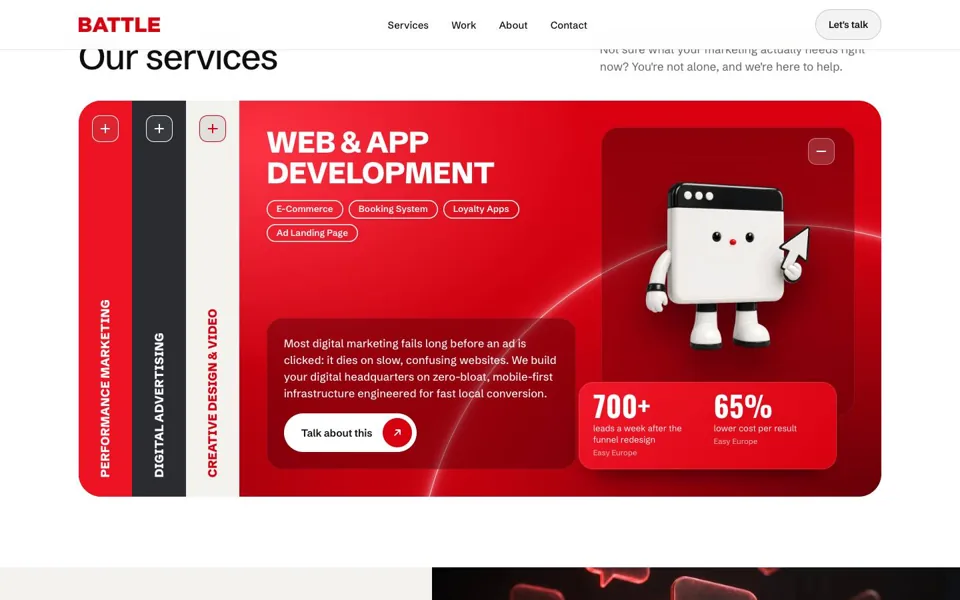
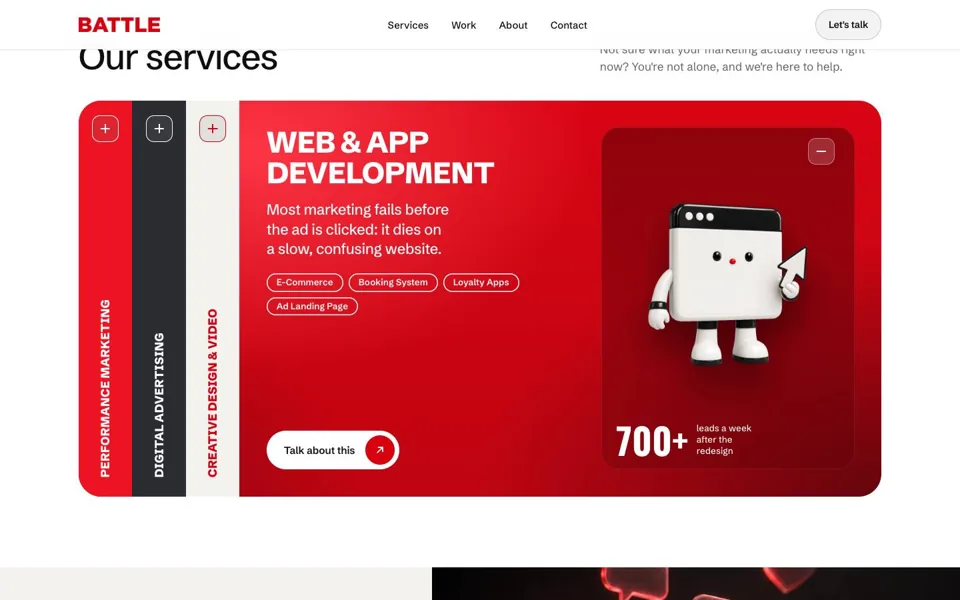
Round 13: five hero versions to choose from (ring, team photo, photo split, character line-up, clean), switchable with ?hero=1..5

diff --git a/r13.css b/r13.css
@@ -434,3 +434,84 @@ body.lock{overflow:hidden}
 }
 @media (max-width:370px){.h1 .b{font-size:14vw}.ctas .btn{padding-left:18px}.wh .v{font-size:28px}.pnm{font-size:16px}}
 @media (prefers-reduced-motion:reduce){html{scroll-behavior:auto}.rz .w>span{transform:none;transition:none}.spill img,.cnp img{animation:none}.sl>img{transition:none;transform:none}.acc *,.wr,.wb,.wph,.flow figure{transition:none!important}}
+
+/* ================= hero versions for review (David 22 Nov: "give me a few versions for hero section") =================
+   ?hero=1 ring (the first build) · 2 team photo · 3 photo split · 4 character line-up · 5 clean type. The switcher is a review aid, not part of the design. */
+.hteam,.hsplit,.hline,.hproof{display:none}
+html:not([data-hero="1"]) .ring,html:not([data-hero="1"]) .ppl,html:not([data-hero="1"]) .spill{display:none}
+.hsw{position:absolute;right:max(var(--gut),calc((100vw - 1320px)/2 + var(--gut)));top:82px;z-index:9;display:flex;align-items:center;gap:2px;padding:5px;border-radius:999px;background:rgba(14,15,18,.88);color:#fff;font:600 12.5px/1 var(--t);box-shadow:0 14px 30px -14px rgba(0,0,0,.6)}
+.hsw span{padding:0 8px 0 12px;opacity:.66}
+.hsw a{padding:9px 13px;border-radius:999px;text-decoration:none;white-space:nowrap;transition:background .25s}
+.hsw a:hover{background:rgba(255,255,255,.16)}.hsw a[aria-current=true]{background:#fff;color:var(--ink)}
+
+/* 2 · team photo: one campaign photograph on the brand red, the headline above it */
+[data-hero="2"] .hbg{background:radial-gradient(56% 46% at 50% 26%,#F01522,rgba(240,21,34,0) 72%),radial-gradient(60% 60% at 0% 100%,rgba(150,0,10,.7),rgba(150,0,10,0) 70%),radial-gradient(60% 60% at 100% 100%,rgba(150,0,10,.7),rgba(150,0,10,0) 70%),#D90308}
+[data-hero="2"] .neon{display:none}
+[data-hero="2"] .hteam{display:flex;justify-content:center;position:absolute;left:0;right:0;bottom:0;height:64svh;max-height:66%;z-index:1;pointer-events:none}
+.hteam img{height:100%;width:auto;max-width:none;-webkit-mask-image:linear-gradient(transparent,#000 20%),linear-gradient(90deg,transparent,#000 9%,#000 91%,transparent);-webkit-mask-composite:source-in;mask-image:linear-gradient(transparent,#000 20%),linear-gradient(90deg,transparent,#000 9%,#000 91%,transparent);mask-composite:intersect}
+[data-hero="2"] .hcopy{top:clamp(250px,29%,380px)}
+[data-hero="2"] .h1 .b{font-size:clamp(52px,6.3vw,98px)}
+[data-hero="2"] .lead{margin-top:16px;max-width:52ch}
+[data-hero="2"] .ctas{margin-top:22px}
+[data-hero="2"] .hfade{height:24%}
+
+/* 3 · photo split: the words on the left, one portrait in a frame, two results pinned to it */
+[data-hero="3"] .hcopy{left:max(var(--gut),calc((100vw - 1320px)/2 + var(--gut)));top:50%;translate:0 -50%;width:min(50vw,640px);text-align:left;align-items:flex-start}
+[data-hero="3"] .h1{justify-items:start}
+[data-hero="3"] .h1 .b{white-space:normal;font-size:clamp(58px,7.2vw,116px);line-height:.9}
+[data-hero="3"] .lead{max-width:40ch}
+[data-hero="3"] .ctas{justify-content:flex-start}
+[data-hero="3"] .neon{left:calc(100% - max(var(--gut),(100vw - 1320px)/2 + var(--gut)) - min(18vw,240px));top:53%;width:min(86vh,58vw);height:min(86vh,58vw)}
+[data-hero="3"] .hsplit{display:block;position:absolute;z-index:4;right:max(var(--gut),calc((100vw - 1320px)/2 + var(--gut)));top:136px;bottom:8%;width:min(36vw,480px)}
+.hsplit figure{position:absolute;inset:0;border-radius:36px;overflow:hidden;box-shadow:0 50px 80px -40px rgba(40,0,4,.85)}
+.hsplit img{width:100%;height:100%;object-fit:cover;object-position:50% 22%}
+.hg{position:absolute;z-index:2;display:grid;gap:5px;padding:16px 20px;border-radius:22px;background:#fff;color:var(--ink);box-shadow:0 30px 50px -24px rgba(30,0,3,.7)}
+.hg b{font:700 clamp(38px,3.6vw,54px)/.86 var(--c);color:var(--red)}
+.hg span{max-width:15ch;font:600 13.5px/1.25 var(--t)}
+.hg.g1{left:-24%;bottom:14%}.hg.g2{right:-7%;top:13%}
+[data-hero="3"] .hfade{height:20%}
+
+/* 4 · line-up: the four services stand in a row; tap one to open it */
+[data-hero="4"] .hcopy{top:clamp(262px,33%,400px)}
+[data-hero="4"] .h1 .b{font-size:clamp(56px,6.8vw,104px)}
+@media (max-height:800px) and (min-width:901px){[data-hero="2"] .lead,[data-hero="4"] .lead{display:none}[data-hero="2"] .hcopy,[data-hero="4"] .hcopy{top:clamp(200px,30%,300px)}.hc img{height:clamp(110px,24svh,200px)}}
+[data-hero="4"] .neon{width:150vw;height:150vw;top:calc(56% + 75vw)}
+[data-hero="4"] .hline{display:flex;justify-content:center;align-items:flex-end;gap:clamp(8px,4.6vw,84px);position:absolute;left:0;right:0;bottom:0;z-index:5;padding:0 var(--gut) clamp(20px,4.4vh,46px)}
+.hc{all:unset;box-sizing:border-box;cursor:pointer;display:grid;justify-items:center;gap:14px;-webkit-tap-highlight-color:transparent}
+.hc img{height:clamp(110px,27svh,260px);width:auto;max-width:none;filter:drop-shadow(0 26px 20px rgba(50,0,4,.42));transition:transform .5s var(--ease)}
+.hc span{padding:10px 17px;border-radius:999px;background:#fff;color:var(--ink);font:700 13.5px/1 var(--t);white-space:nowrap;box-shadow:0 14px 26px -14px rgba(40,0,4,.55);transition:background .3s,color .3s}
+@media (hover:hover){.hc:hover img{transform:translateY(-12px) scale(1.05)}.hc:hover span{background:var(--ink);color:#fff}}
+.hc:focus-visible{outline:3px solid #fff;outline-offset:6px;border-radius:18px}
+[data-hero="4"] .hfade{height:26%}
+
+/* 5 · clean: the ring, the words, three numbers. Nothing else */
+[data-hero="5"] .neon{width:min(126vh,88vw);height:min(126vh,88vw);top:50%}
+[data-hero="5"] .hcopy{top:49%}
+[data-hero="5"] .h1 .b{font-size:clamp(60px,8.4vw,134px)}
+[data-hero="5"] .hproof{display:flex;gap:clamp(20px,3.6vw,58px);margin-top:clamp(26px,4.2vh,46px);padding-top:22px;border-top:1px solid rgba(255,255,255,.34)}
+.hproof li{display:grid;gap:5px;text-align:left}
+.hproof b{font:700 clamp(30px,3vw,46px)/.88 var(--c)}
+.hproof span{font:500 13.5px/1.2 var(--t);opacity:.94}
+[data-hero="5"] .hfade{height:24%}
+
+@media (max-width:900px){
+  .hsw{right:auto;left:50%;transform:translateX(-50%);top:70px;font-size:11.5px}.hsw span{display:none}.hsw a{padding:8px 10px}
+  [data-hero="2"] .hcopy{top:34%}[data-hero="2"] .h1 .b{font-size:clamp(50px,14.4vw,72px)}
+  [data-hero="2"] .hteam{height:50svh;max-height:52%}
+  [data-hero="2"] .lead{margin-top:14px}[data-hero="2"] .ctas{margin-top:18px}
+  [data-hero="3"] .hcopy{left:var(--gut);top:118px;translate:none;width:calc(100% - 2*var(--gut))}
+  [data-hero="3"] .h1 .b{font-size:clamp(50px,14.4vw,72px)}
+  [data-hero="3"] .lead{margin-top:12px;font-size:14.5px}[data-hero="3"] .ctas{margin-top:16px}
+  [data-hero="3"] .neon{left:50%;top:76%;width:120vw;height:120vw}
+  [data-hero="3"] .hsplit{left:var(--gut);right:var(--gut);width:auto;top:auto;bottom:5%;height:33svh;max-height:270px}
+  .hsplit figure{border-radius:24px}.hsplit img{object-position:50% 16%}
+  .hg{padding:10px 13px;border-radius:16px}.hg b{font-size:30px}.hg span{font-size:11.5px;max-width:13ch}
+  .hg.g1{left:10px;bottom:10px}.hg.g2{right:10px;top:10px}
+  [data-hero="4"] .hcopy{top:33%}[data-hero="4"] .h1 .b{font-size:clamp(50px,14.4vw,72px)}
+  [data-hero="4"] .neon{width:230vw;height:230vw;top:calc(60% + 115vw)}
+  [data-hero="4"] .hline{gap:4px;justify-content:space-between;padding:0 10px 18px}
+  .hc{gap:9px;flex:1 1 0;min-width:0}.hc img{height:clamp(68px,11.6svh,94px)}.hc span{padding:7px 8px;font-size:10.5px}
+  [data-hero="5"] .neon{width:124vw;height:124vw;top:46%}[data-hero="5"] .hcopy{top:46%}
+  [data-hero="5"] .h1 .b{font-size:clamp(52px,15vw,76px)}
+  [data-hero="5"] .hproof{gap:18px;margin-top:24px;padding-top:18px;align-items:start}.hproof b{font-size:30px}.hproof span{font-size:12px;max-width:11ch}
+}

diff --git a/home-r13.html b/home-r13.html
@@ -3,7 +3,8 @@
 <link rel="preconnect" href="https://fonts.googleapis.com"><link rel="preconnect" href="https://fonts.gstatic.com" crossorigin>
 <link href="https://fonts.googleapis.com/css2?family=Oswald:wght@600;700&family=Schibsted+Grotesk:wght@400;500;600;700;800;900&display=swap" rel="stylesheet">
 <link rel="preload" as="image" href="assets2/p_man_l.webp"><link rel="preload" as="image" href="assets2/p_woman_r.webp">
-<link rel="icon" href="assets3/bm-mark.webp"><link rel="stylesheet" href="r13.css"></head><body class="r13"><header class="nav" id="nav"><div class="wrap"><a class="home" href="#top" aria-label="Battle, back to the top"><img class="lw" src="assets3/battle-white.webp" alt="Battle"><img class="lr" src="assets3/battle-red.webp" alt="" aria-hidden="true"></a>
+<link rel="icon" href="assets3/bm-mark.webp"><link rel="stylesheet" href="r13.css">
+<script>document.documentElement.dataset.hero=(new URLSearchParams(location.search).get("hero")||"1").replace(/[^1-5]/g,"")||"1"</script></head><body class="r13"><header class="nav" id="nav"><div class="wrap"><a class="home" href="#top" aria-label="Battle, back to the top"><img class="lw" src="assets3/battle-white.webp" alt="Battle"><img class="lr" src="assets3/battle-red.webp" alt="" aria-hidden="true"></a>
 <ul><li><a href="#services">Services</a></li><li><a href="#cases">Work</a></li><li><a href="#about">About</a></li><li><a href="#connect">Contact</a></li></ul>
 <div class="nr"><a class="btn gl sm" href="#connect">Let's talk</a><button class="nb" id="nb" type="button" aria-label="Menu" aria-expanded="false" aria-controls="drawer"><i></i><i></i></button></div></div></header>
 <nav class="drawer" id="drawer" aria-label="Menu"><ul><li><a href="#services">Services</a></li><li><a href="#cases">Work</a></li><li><a href="#about">About</a></li><li><a href="#connect">Contact</a></li></ul>
@@ -13,8 +14,13 @@
 <div class="ppl" aria-hidden="true"><img class="pp l" src="assets2/p_man_l.webp" alt="" draggable="false"><img class="pp r" src="assets2/p_woman_r.webp" alt="" draggable="false"></div>
 <div class="hcopy"><h1 class="h1"><span class="a rz" data-rz>Not sure where to start with</span><span class="b rz" data-rz>digital marketing?</span></h1>
 <p class="lead">We understand the frustration. Let us help you cut through the clutter with a clear, human-centred approach that drives results.</p>
-<div class="ctas"><a class="btn" href="#connect">Let's talk<span class="ar" aria-hidden="true"><svg viewBox="0 0 16 16"><path d="M4 12 12 4M5.5 4H12v6.5" fill="none" stroke="currentColor" stroke-width="1.8" stroke-linecap="round" stroke-linejoin="round"/></svg><svg viewBox="0 0 16 16"><path d="M4 12 12 4M5.5 4H12v6.5" fill="none" stroke="currentColor" stroke-width="1.8" stroke-linecap="round" stroke-linejoin="round"/></svg></span></a><a class="btn gl" href="#services">Help me pick</a></div></div>
-<div class="spill" id="spill" aria-hidden="true"></div></section><section class="cl" id="clients" data-tone="light"><div class="wrap"><h2 class="ttl rz" data-rz>Trusted by <b>160+</b> clients across <b>14+</b> industries</h2></div>
+<div class="ctas"><a class="btn" href="#connect">Let's talk<span class="ar" aria-hidden="true"><svg viewBox="0 0 16 16"><path d="M4 12 12 4M5.5 4H12v6.5" fill="none" stroke="currentColor" stroke-width="1.8" stroke-linecap="round" stroke-linejoin="round"/></svg><svg viewBox="0 0 16 16"><path d="M4 12 12 4M5.5 4H12v6.5" fill="none" stroke="currentColor" stroke-width="1.8" stroke-linecap="round" stroke-linejoin="round"/></svg></span></a><a class="btn gl" href="#services">Help me pick</a></div>
+<ul class="hproof" aria-label="Battle in numbers"><li><b>160+</b><span>clients</span></li><li><b>14+</b><span>industries</span></li><li><b>22×</b><span>best return on ad spend</span></li></ul></div>
+<div class="hteam" aria-hidden="true"><img src="assets6/hero_team.webp" alt="" loading="lazy" draggable="false"></div>
+<div class="hsplit" aria-hidden="true"><figure><img src="assets6/hero_solo.webp" alt="" loading="lazy" draggable="false"></figure>
+<div class="hg g1"><b>+450%</b><span>monthly revenue, one outlet</span></div><div class="hg g2"><b>700+</b><span>leads a week</span></div></div>
+<div class="hline" id="hline"></div>
+<div class="spill" id="spill" aria-hidden="true"></div><nav class="hsw" id="hsw" aria-label="Hero versions, for review"></nav></section><section class="cl" id="clients" data-tone="light"><div class="wrap"><h2 class="ttl rz" data-rz>Trusted by <b>160+</b> clients across <b>14+</b> industries</h2></div>
 <div class="lrib" id="lrib" role="list" aria-label="Some of our clients"></div></section><section class="sv" id="services" data-tone="light"><div class="wrap"><div class="svh"><h2 class="ttl rz" data-rz>Our services</h2>
 <p class="sub">Not sure what your marketing actually needs right now? You're not alone, and we're here to help.</p></div>
 <div class="acc grain" id="acc"></div></div></section><section class="ch" id="diag" data-tone="light"><div class="chl"><h2 class="ttl rz" data-rz>Match your marketing headache</h2>

diff --git a/index.html b/index.html
@@ -28,7 +28,12 @@ h1{font-weight:800;letter-spacing:-.03em;font-size:clamp(34px,4.5vw,60px);line-h
 @media (max-width:720px){.nt{padding:0 18px 20px}.nt table,.nt tbody,.nt tr,.nt td{display:block;width:auto!important}.nt thead{display:none}.nt td{border-bottom:0;padding:4px 16px}.nt tr{padding:12px 0;border-bottom:1px solid #efefef}}
 @media (max-width:720px){.mv{padding-left:16px!important;padding-right:16px!important;grid-template-columns:minmax(0,1fr)!important}.grid{padding-left:16px!important;padding-right:16px!important;grid-template-columns:minmax(0,1fr)!important}}
 </style></head><body>
-<!--r13--><div class="top" id="r13"><div class="lbl">Round 13 · rebuilt against the feedback slides · 22 Nov</div>
+<!--r13--><div class="top" id="r13h"><div class="lbl">Round 13 · five heroes to choose from · 22 Nov</div>
+<h1>Pick a hero.</h1>
+<p class="note">Same title, same copy, same page underneath. A small switcher at the top of the banner flips between them. The people are generated and fictional, standing in until Battle shoots its own.</p></div>
+<div class="grid" style="display:grid;grid-template-columns:repeat(auto-fit,minmax(240px,1fr));gap:22px;padding:0 40px 40px;max-width:1400px;margin:0 auto">
+<div class="card"><a href="home-r13.html?hero=1"><img src="gen/r13-h1.webp" alt="Hero 1: Ring" style="aspect-ratio:8/5;cursor:pointer"></a><div class="b"><h2>Hero 1 · Ring</h2><p>The first build: pieces riding a neon ring, two people at the sides.</p></div></div><div class="card"><a href="home-r13.html?hero=2"><img src="gen/r13-h2.webp" alt="Hero 2: Team" style="aspect-ratio:8/5;cursor:pointer"></a><div class="b"><h2>Hero 2 · Team</h2><p>One campaign photograph of four people on the brand red, the headline above.</p></div></div><div class="card"><a href="home-r13.html?hero=3"><img src="gen/r13-h3.webp" alt="Hero 3: Photo" style="aspect-ratio:8/5;cursor:pointer"></a><div class="b"><h2>Hero 3 · Photo</h2><p>Words on the left, one portrait in a frame, two results pinned to it.</p></div></div><div class="card"><a href="home-r13.html?hero=4"><img src="gen/r13-h4.webp" alt="Hero 4: Line-up" style="aspect-ratio:8/5;cursor:pointer"></a><div class="b"><h2>Hero 4 · Line-up</h2><p>The four service characters stand in a row. Tap one to open that service.</p></div></div><div class="card"><a href="home-r13.html?hero=5"><img src="gen/r13-h5.webp" alt="Hero 5: Clean" style="aspect-ratio:8/5;cursor:pointer"></a><div class="b"><h2>Hero 5 · Clean</h2><p>The ring, the words and three numbers. Nothing else.</p></div></div></div>
+<div class="top" id="r13"><div class="lbl">Round 13 · rebuilt against the feedback slides · 22 Nov</div>
 <h1>The home page, slide by slide.</h1>
 <div class="brief"><span class="r">Sue's sample drafts</span><span class="r">Slides 1 to 8</span><span>Phone checked</span></div>
 <p class="note">Round 12 followed the words of the meeting but not the look of the sample drafts. This round is rebuilt against the drafts themselves. <a href="home-r13.html" style="color:var(--red);font-weight:600">Open the page</a>, or see the <a href="home-r13.html?ch=b" style="color:var(--red);font-weight:600">matte character finish</a>.</p></div>

diff --git a/r13.js b/r13.js
@@ -35,8 +35,22 @@ if (!RM) { $$("[data-rz]").forEach(split);
   const io = new IntersectionObserver((es) => es.forEach((e) => { if (e.isIntersecting) { e.target.classList.add("in"); io.unobserve(e.target); } }), { threshold: .3, rootMargin: "0px 0px -6% 0px" });
   $$("[data-rz]").forEach((el) => { if (!el.closest("#hero")) io.observe(el); }); }
 
-// ---- hero: the pieces ride a neon ring around the headline; the four service characters are the big ones ----
-{ const hero = $("#hero"), ring = $("#ring"), neon = $("#neon");
+// ---- hero versions, for review: ?hero=1 ring, 2 team photo, 3 photo split, 4 character line-up, 5 clean type ----
+const HV = document.documentElement.dataset.hero || "1"; window.R13.hero = HV;
+{ const sw = $("#hsw"); if (sw) { const u = new URLSearchParams(location.search);
+  sw.innerHTML = "<span>Hero</span>" + [["1", "Ring"], ["2", "Team"], ["3", "Photo"], ["4", "Line-up"], ["5", "Clean"]].map(([n, t]) => { u.set("hero", n); return `<a href="?${u}"${n === HV ? ' aria-current="true"' : ""}>${t}</a>`; }).join(""); } }
+if (HV !== "1") { const hero = $("#hero");
+  if (HV === "4") { const line = $("#hline");
+    line.innerHTML = [["perf", "Performance"], ["ads", "Advertising"], ["video", "Creative"], ["web", "Web & App"]].map(([k, t], i) => `<button type="button" class="hc" data-i="${i}" aria-label="${t}: see the service"><img src="${CH(k)}" alt="" draggable="false"><span>${t}</span></button>`).join("");
+    $$(".hc", line).forEach((b) => b.addEventListener("click", () => openSvc(+b.dataset.i, true, true))); }
+  $$(".h1 .rz").forEach((el, i) => setTimeout(() => el.classList.add("in"), G ? 250 + i * 220 : 0));
+  if (G) { gsap.from(".hero .lead, .hero .ctas, .hproof li", { y: 18, opacity: 0, duration: .8, stagger: .1, delay: .8, ease: "power3.out" });
+    if (HV === "2") gsap.from(".hteam img", { yPercent: 7, opacity: 0, duration: 1.3, delay: .25, ease: "power3.out" });
+    if (HV === "3") { gsap.from(".hsplit figure", { y: 60, opacity: 0, duration: 1.2, delay: .25, ease: "power3.out" }); gsap.from(".hg", { scale: .7, opacity: 0, duration: .7, stagger: .16, delay: 1, ease: "back.out(1.7)" }); }
+    if (HV === "4") gsap.from(".hc", { y: 90, opacity: 0, duration: .9, stagger: .09, delay: .4, ease: "back.out(1.5)" }); } }
+
+// ---- hero 1: the pieces ride a neon ring around the headline; the four service characters are the big ones ----
+if (HV === "1") { const hero = $("#hero"), ring = $("#ring"), neon = $("#neon");
   const PIECES = [[CH("perf"), 1.6], ["assets2/heart_w.webp", .8], ["assets5/laptop_k.webp", 1.05], ["assets2/play_k.webp", .85], ["assets2/hashtag_w.webp", .8],
     [CH("ads"), 1.5], ["assets2/bubble_w.webp", .9], ["assets5/pen_w.webp", .8], ["assets2/thumb_k.webp", .9], ["assets2/chart_w.webp", .95],
     [CH("video"), 1.55], ["assets5/swatch_k.webp", .95], ["assets2/envelope_w.webp", .85], ["assets2/coin_w.webp", .75], ["assets2/camera_k.webp", .95],
